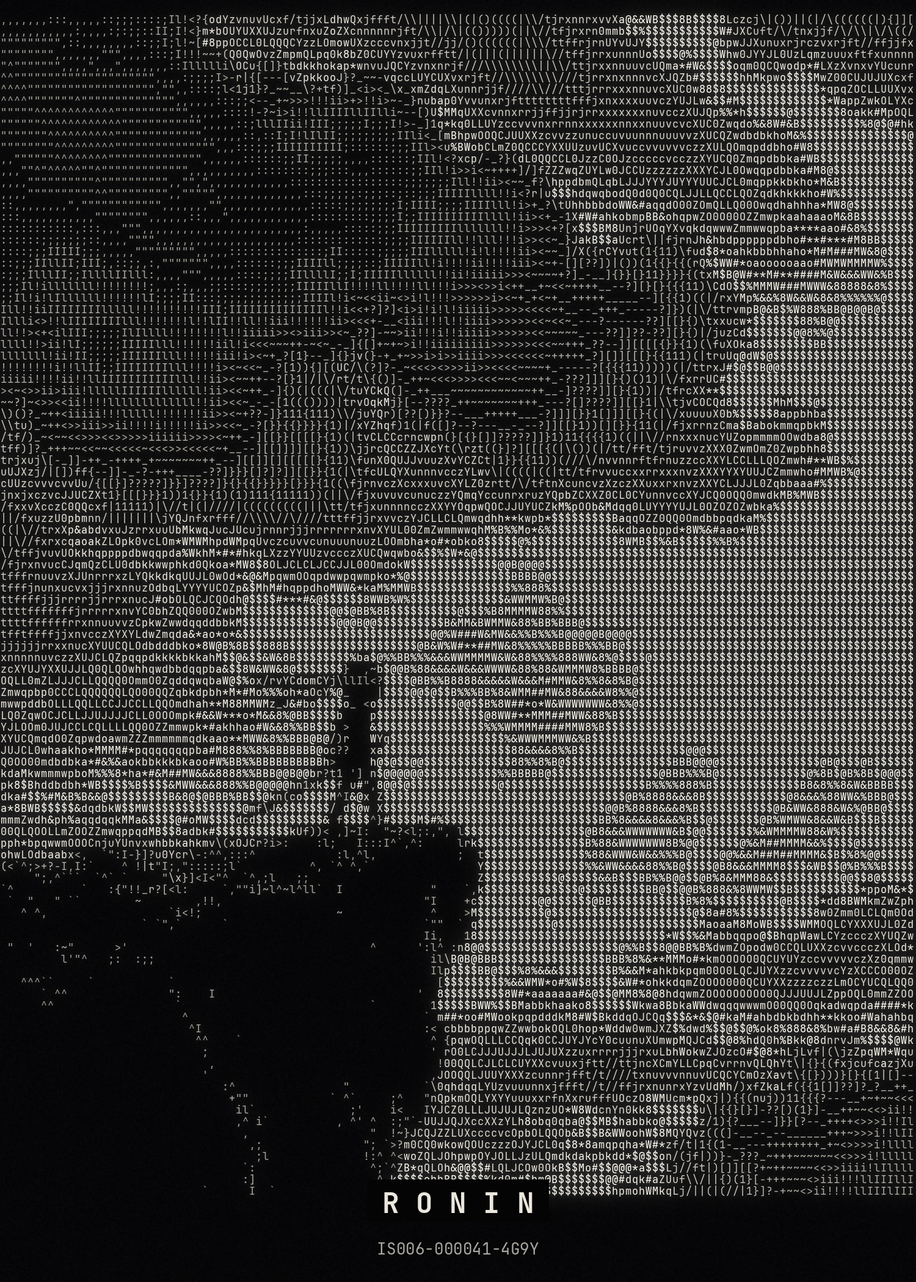
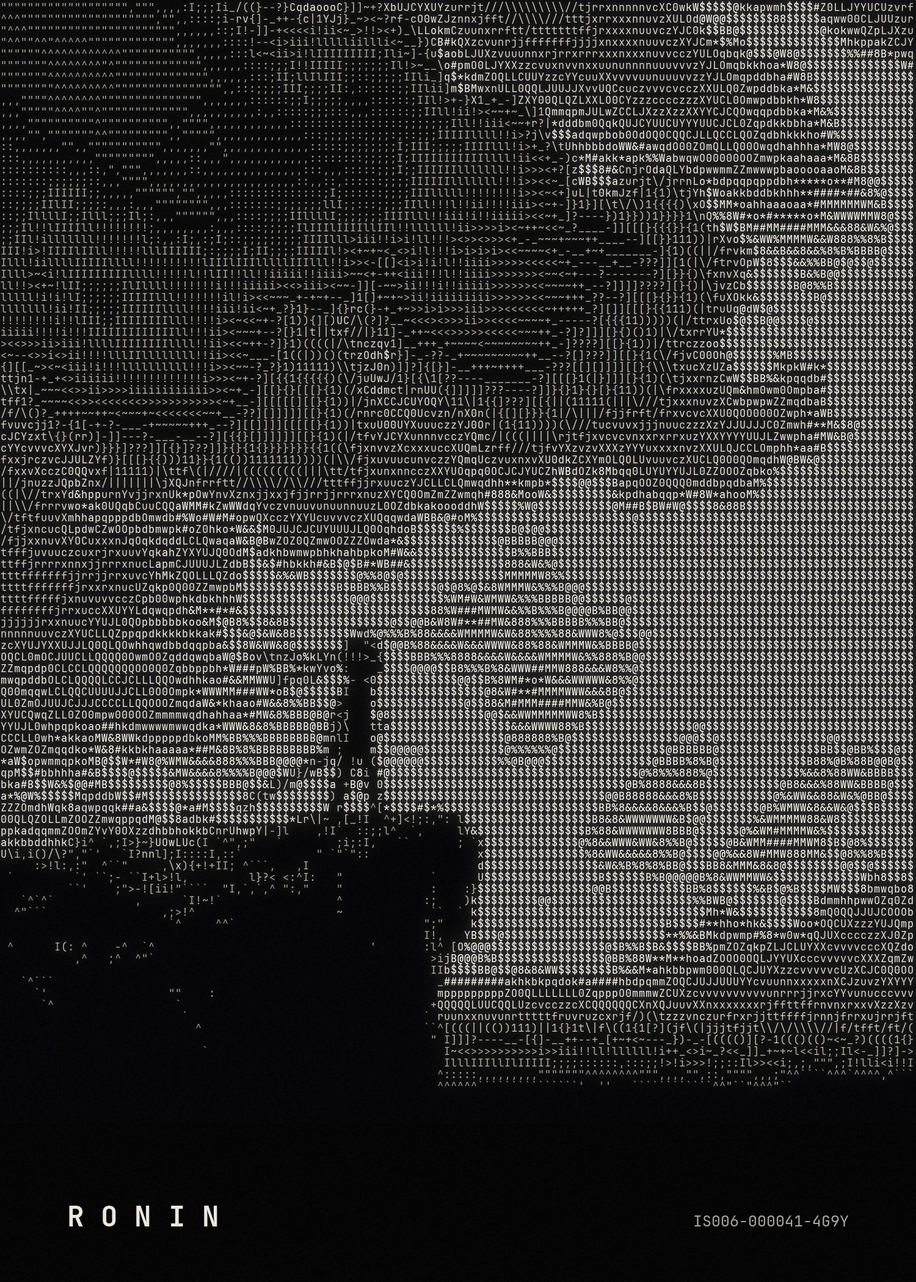
ASCII cards: the characters fade out above a clear strip for the name and ID
Removes the black box that was painted behind the name. The name (left) and
copy ID with rarity cuts (right) sit in the clear strip, same layout as the
grain cards.

Claude-Session: https://claude.ai/code/session_01B5R6bTWyYQaC5vMtkxCWhG

Changed region(s): [[0.0, 0.0, 1.0, 0.9905], [0.0613, 0.9286, 0.2453, 0.9595]]

diff --git a/stickfist/design-concepts/grain-and-ascii/tools/ascii_card.py b/stickfist/design-concepts/grain-and-ascii/tools/ascii_card.py
@@ -1,6 +1,7 @@
 """ASCII print: the figure rebuilt from monospace glyphs (denser glyph = brighter), bone on black, with a soft glow.
-The name and copy ID are set in the same monospace so the type belongs to the picture.
-usage: python ascii_card.py ART.png OUT.png NAME CODE MARK [black white gamma tint crop]"""
+The picture fades out before the bottom; the name (left) and copy ID (right) live in the clear black strip,
+set in the same monospace so the type belongs to the picture.
+usage: python ascii_card.py ART.png OUT.png NAME CODE MARK [black white gamma tint shift art_h cw chh glow ...]"""
 import sys, cv2, numpy as np
 from PIL import Image, ImageDraw, ImageFont
 
@@ -11,42 +12,45 @@ RAMP = " .'`^\",:;Il!i><~+_-?][}{1)(|\\/tfjrxnuvczXYUJCLQ0OZmwqpdbkhao*#MW&8%B@$
 TINT = {'bw': (236, 231, 220), 'blue': (214, 224, 255), 'red': (255, 214, 206), 'brass': (250, 222, 160)}
 
 
-def render(art, out, name, code, mark='', black=0.04, white=0.85, gamma=0.75, tint='bw', crop=0.5, cw=15, chh=26, glow=0.55):
+def render(art, out, name, code, mark='', black=0.04, white=0.85, gamma=0.75, tint='bw', shift=0, art_h=1820,
+           cw=11, chh=19, glow=0.5, fade_rows=12):
+    art_h, shift = int(art_h), int(shift)
     img = cv2.imread(art)
-    h0, w0 = img.shape[:2]; k = max(W / w0, H / h0)
+    h0, w0 = img.shape[:2]; k = max(W / w0, art_h / h0)
     img = cv2.resize(img, (int(round(w0 * k)), int(round(h0 * k))), interpolation=cv2.INTER_AREA)
-    y0 = int((img.shape[0] - H) * crop); x0 = (img.shape[1] - W) // 2
-    img = img[y0:y0 + H, x0:x0 + W]
-    g = cv2.cvtColor(img, cv2.COLOR_BGR2GRAY).astype(np.float32) / 255
-    cols, rows = W // cw, (H - 150) // chh
+    x0 = (img.shape[1] - W) // 2; shift = min(shift, img.shape[0] - art_h)
+    win = img[shift:shift + art_h, x0:x0 + W]
+    g = cv2.cvtColor(win, cv2.COLOR_BGR2GRAY).astype(np.float32) / 255
+    cols, rows = W // cw, art_h // chh
     small = cv2.resize(g, (cols, rows), interpolation=cv2.INTER_AREA)
     t = np.clip((small - black) / (white - black), 0, 1) ** gamma
+    fr = int(fade_rows)                                           # the last rows thin out into the black strip
+    t *= np.clip((rows - np.arange(rows, dtype=np.float32)) / fr, 0, 1)[:, None] ** 1.4
     font = ImageFont.truetype(FONT, int(chh * 0.92))
     base = np.array(TINT[tint], np.float32)
     canvas = Image.new('RGB', (W, H), (4, 4, 5)); d = ImageDraw.Draw(canvas)
-    oy = 20
     for r in range(rows):
         for c in range(cols):
             v = t[r, c]
             if v < 0.035: continue
             ch = RAMP[min(len(RAMP) - 1, int(v * (len(RAMP) - 1) + 0.5))]
             if ch == ' ': continue
-            col = tuple(int(x * (0.62 + 0.38 * v)) for x in base)
-            d.text((c * cw + 1, oy + r * chh), ch, font=font, fill=col)
+            d.text((c * cw + 1, r * chh), ch, font=font, fill=tuple(int(x * (0.62 + 0.38 * v)) for x in base))
     arr = np.asarray(canvas).astype(np.float32) / 255
     bl = cv2.GaussianBlur(arr, (0, 0), 16) * glow + cv2.GaussianBlur(arr, (0, 0), 4) * 0.18
     arr = np.clip(arr + bl, 0, 1)
+    arr[art_h + 20:] = np.minimum(arr[art_h + 20:], 0.02)         # nothing glows into the strip
     rng = np.random.default_rng(3)
     arr += cv2.GaussianBlur(rng.normal(0, 1, (H, W)).astype(np.float32), (0, 0), 0.7)[..., None] * 0.012
-    # the type: same mono, spaced wide, small
     im = Image.fromarray((np.clip(arr, 0, 1) * 255).astype(np.uint8)); d = ImageDraw.Draw(im)
-    fb = ImageFont.truetype(FONTB, 46); fs = ImageFont.truetype(FONT, 26)
-    label = ' '.join(name.upper()); tw = d.textlength(label, font=fb)
-    d.rectangle([(W - tw) / 2 - 24, H - 168, (W + tw) / 2 + 24, H - 100], fill=(4, 4, 5))
-    d.text(((W - tw) / 2, H - 160), label, font=fb, fill=TINT[tint])
-    idt = code + ('  ' + mark if mark else ''); iw = d.textlength(idt, font=fs)
-    d.text(((W - iw) / 2, H - 72), code, font=fs, fill=tuple(int(x * 0.72) for x in TINT[tint]))
-    if mark: d.text(((W + iw) / 2 - d.textlength(mark, font=fs), H - 72), mark, font=ImageFont.truetype(FONTB, 26), fill=(224, 32, 44))
+    fb = ImageFont.truetype(FONTB, 46); fs = ImageFont.truetype(FONT, 25); fm = ImageFont.truetype(FONTB, 25)
+    base_y = H - 92
+    d.text((110, base_y - 46), ' '.join(name.upper()), font=fb, fill=TINT[tint])                 # name, left
+    idc = tuple(int(x * 0.72) for x in TINT[tint]); gap = 14
+    mw = d.textlength(mark, font=fm) if mark else 0
+    cx = W - 110 - mw - (gap if mark else 0) - d.textlength(code, font=fs)
+    d.text((cx, base_y - 25), code, font=fs, fill=idc)                                          # ID, right, same baseline
+    if mark: d.text((W - 110 - mw, base_y - 25), mark, font=fm, fill=(224, 32, 44))
     im.save(out); return out
 
 
@@ -54,5 +58,5 @@ if __name__ == '__main__':
     a = sys.argv
     kw = {}
     for s in a[6:]:
-        k, v = s.split('='); kw[k] = v if k == 'tint' else (int(v) if k in ('cw', 'chh') else float(v))
+        k, v = s.split('='); kw[k] = v if k == 'tint' else (int(v) if k in ('cw', 'chh', 'fade_rows') else float(v))
     render(a[1], a[2], a[3], a[4], a[5], **kw); print('ok', a[2])
